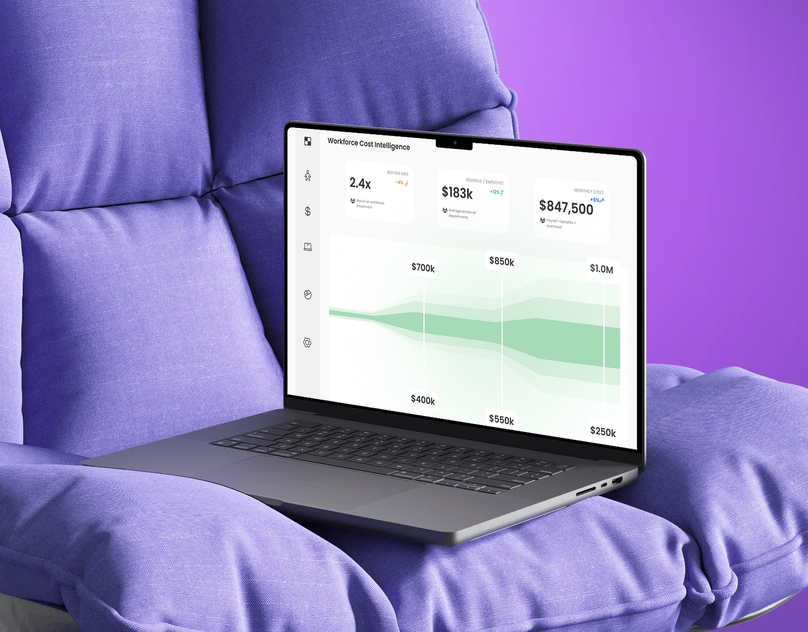
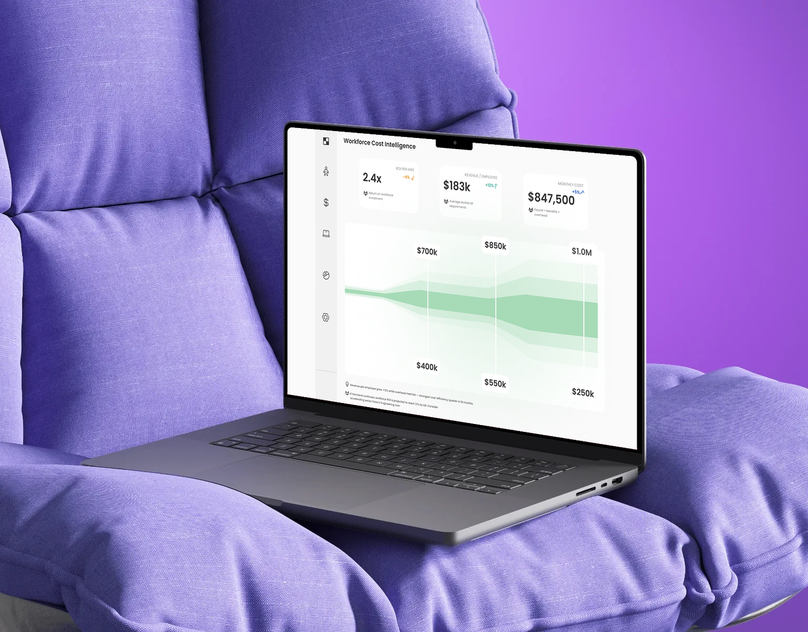
Purple chair laptop: fit the whole workforce cost chart on screen without stretching
Claude-Session: https://claude.ai/code/session_01FdYAnoP1AuAPuCnLWf7gdc

diff --git a/behance-cover/mockups/set22.py b/behance-cover/mockups/set22.py
@@ -1,4 +1,4 @@
-# Laptop on the purple chair (158) with the Employees screen (Workforce Cost Intelligence), rendered
+# Laptop on the purple chair (158) with the whole Employees Workforce Cost section (fitted, not stretched), rendered
 # at 1x, 2x and 2.5x (4000 px) scene scale: cover 1616x1264 (+808), Upwork 4:3 (1000x750, 2000x1500
 # JPEG, 4000x3000 PNG), Behance artboard 16:9 (1400x788, 2800x1576).
 import math, numpy as np
@@ -6,7 +6,11 @@ from PIL import Image, ImageDraw, ImageFilter
 exec(open('set8.py').read().split('for (name, (f, q, asp')[0])
 f, q, asp, notch, _ = SCENES['chair']; DF, TOP = '209.jpg', 470
 base = Image.open(I + f).convert('RGB'); dash = Image.open(I + DF).convert('RGB'); r = asp
-bh = round(dash.width / r); src = dash.crop((0, TOP, dash.width, TOP + bh)).resize((round(3600 * r), 3600), Image.LANCZOS)
+# fit the whole Workforce Cost Intelligence section (title to the notes under the chart) on screen
+# without stretching: crop rows 470-1555 at full width, centre it on the page colour to the screen ratio
+band = dash.crop((0, 470, dash.width, 1555)); cw = round(band.height * r)
+pg = Image.new('RGB', (cw, band.height), dash.getpixel((1440, 1700))); pg.paste(band, ((cw - band.width) // 2, 0))
+src = pg.resize((round(3600 * r), 3600), Image.LANCZOS)
 sm = Image.new('L', src.size, 0); d = ImageDraw.Draw(sm); s = src.height / 2400
 d.rounded_rectangle((0, 0, src.width - 1, src.height - 1), 55 * s, fill=255); d.rectangle((0, src.height // 2, src.width, src.height), fill=255)
 nw = 392 / 3713 * src.width; cx = src.width / 2; d.rounded_rectangle((cx - nw / 2, -60 * s, cx + nw / 2, 66 * s), 22 * s, fill=0)
